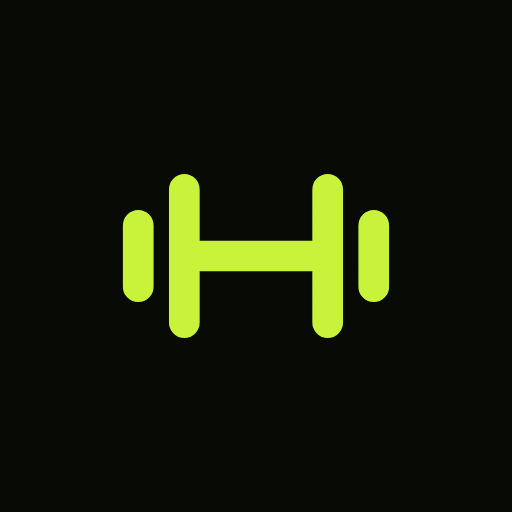
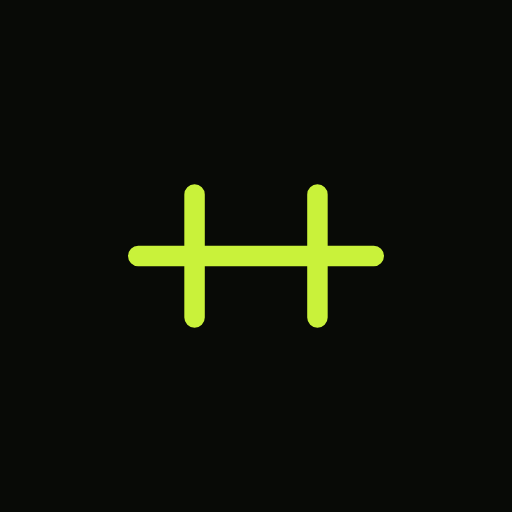
Ícono más minimalista: mancuerna de tres trazos finos
Claude-Session: https://claude.ai/code/session_01A9rpYYw6MVxow91R6sXQMA

Changed region(s): [[0.2188, 0.3438, 0.7812, 0.6875]]

diff --git a/sw.js b/sw.js
@@ -1,5 +1,5 @@
 // Rutina de gym: guarda la app en el teléfono para que abra sin internet.
-const CACHE = 'rutina-gym-v6';
+const CACHE = 'rutina-gym-v7';
 const FILES = [
   './', './index.html', './manifest.webmanifest',
   './icon-192.png', './icon-512.png', './icon-maskable.png', './apple-touch-icon.png',
